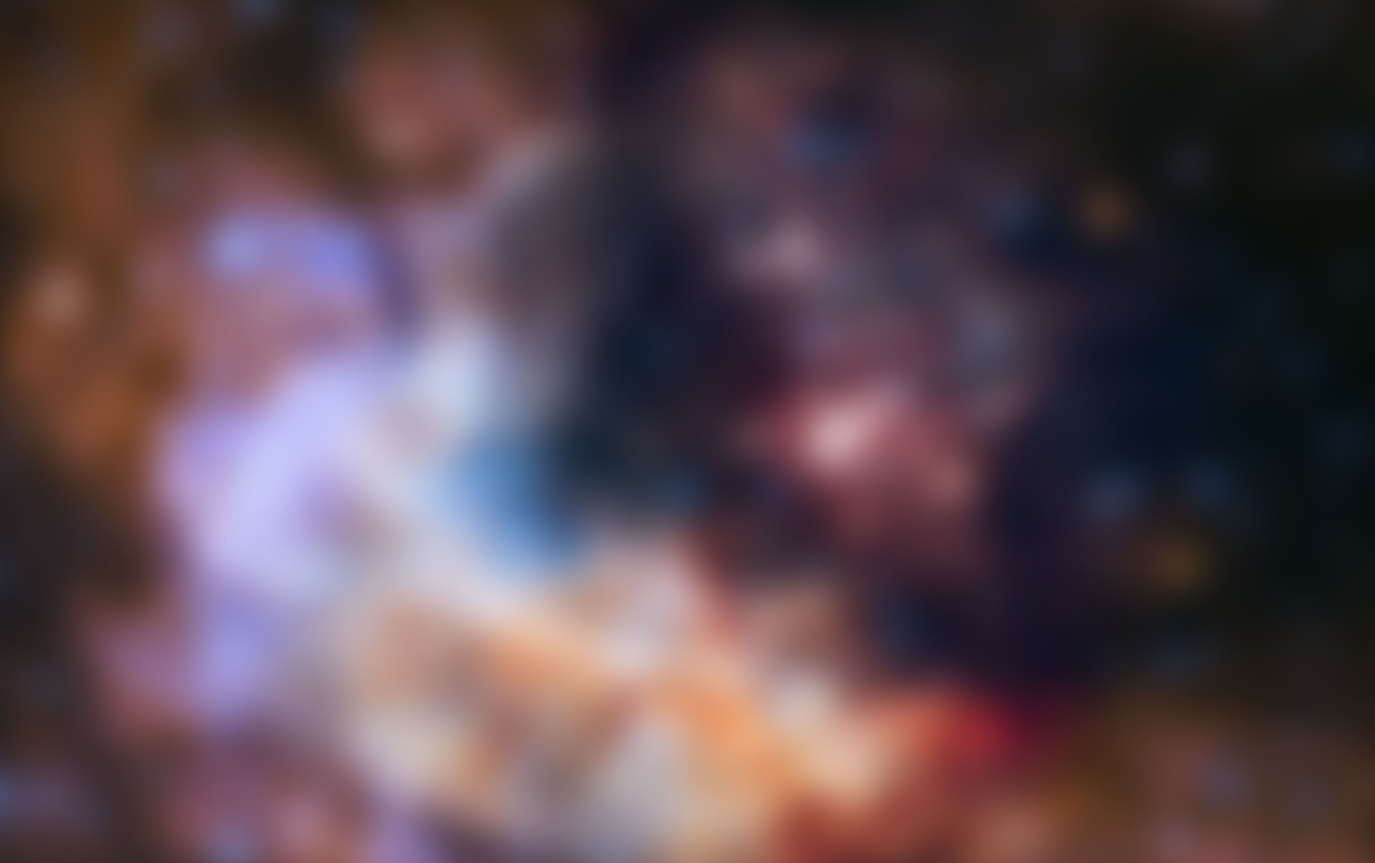
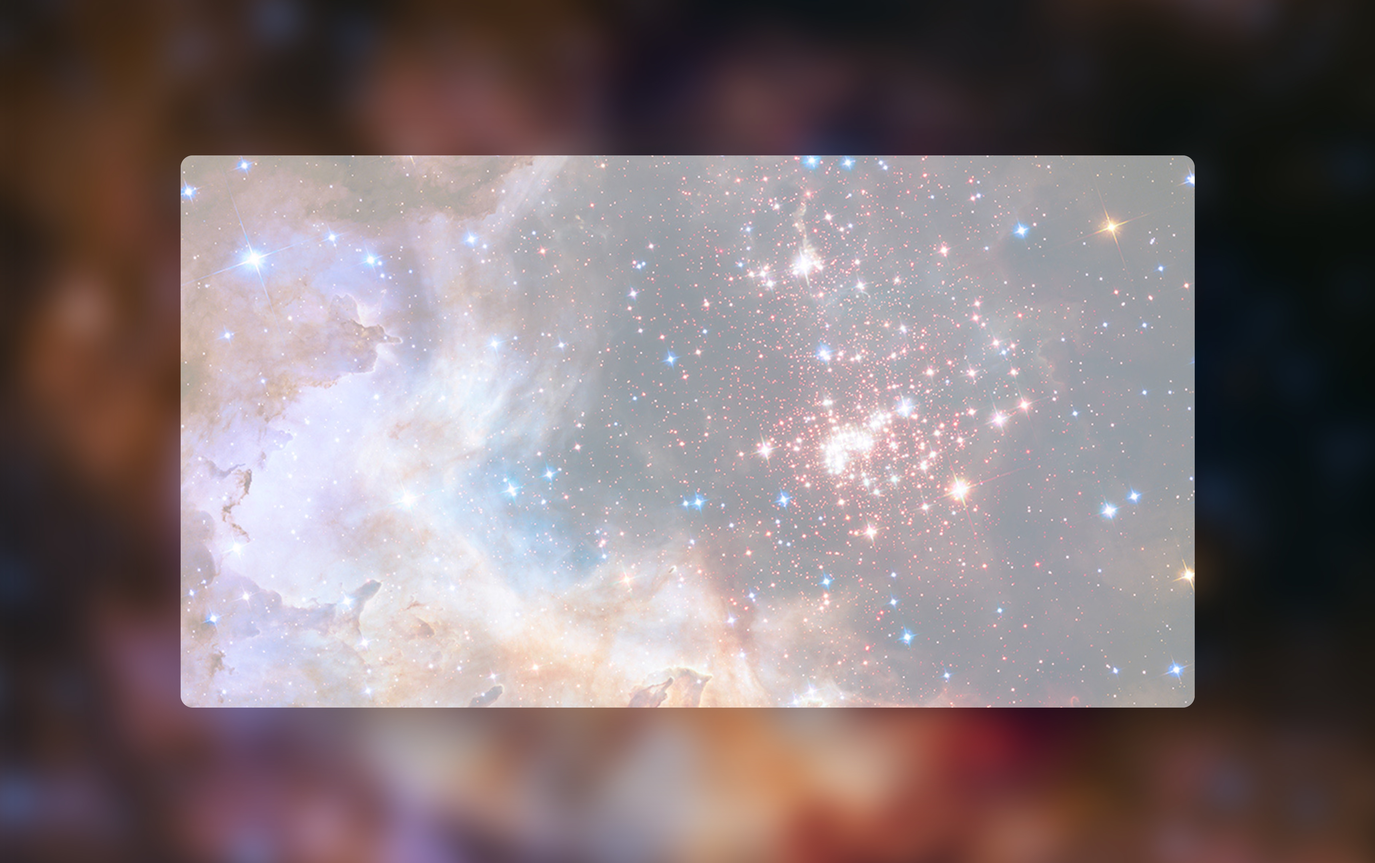
Changed the drawing of the pause menu for the new background

diff --git a/Beaulax/Beaulax/Game1.cs b/Beaulax/Beaulax/Game1.cs
@@ -146,24 +146,24 @@ namespace Beaulax
 
             #region Pause Menu
             // button y positions
-            resumeGameButtonY = (int)(screenHeight * (35f / 72f));
+            resumeGameButtonY = (int)(screenHeight * (5f / 12f));
             saveGameButtonY = (int)(resumeGameButtonY + buttonHeight + screenHeight * (1f / 72f));
             exitToMenuButtonY = saveGameButtonY + 2 * buttonHeight;
 
             // pause text size
-            pauseTextRectangle.Width = (int)(screenWidth * (1f / 3f));
-            pauseTextRectangle.Height = (int)(screenHeight * (13f / 60f));
+            pauseTextRectangle.Width = (int)(screenWidth * (16f / 75f));
+            pauseTextRectangle.Height = (int)(screenHeight * (5f / 36f));
 
             // pause text location
             pauseTextRectangle.X = (screenWidth - pauseTextRectangle.Width) / 2;
-            pauseTextRectangle.Y = (int)(screenHeight * (169f / 1440f));//(4f / 48f));
+            pauseTextRectangle.Y = (int)(screenHeight * (5f / 24f));
 
             // help button size
             helpButtonDimension = (int)(screenWidth * (7f / 120f));
 
             // help button location
-            helpButtonX = (int)(screenWidth - screenWidth * (1f / 120f) - helpButtonDimension);
-            helpButtonY = (int)(screenHeight * (1f / 72f));
+            helpButtonX = (int)(screenWidth - screenWidth * (7f / 50f) - helpButtonDimension);
+            helpButtonY = (int)(screenHeight * (7f / 36f));
             #endregion
             #endregion
 
@@ -369,7 +369,7 @@ namespace Beaulax
                 optionsButtonHover = false;
             }
 
-            // open the options menu when the options button is left clicked
+            // close the game when the exit button is left clicked
             if (mState.Y >= exitButtonY && mState.Y <= exitButtonY + exitButtonDimension && mState.X >= exitButtonX && mState.X <= exitButtonX + exitButtonDimension)
             {
                 // set to true when the mouse is over the button
@@ -510,6 +510,7 @@ namespace Beaulax
         void UpdatePauseMenu(GameTime gameTime)
         {
             KeyboardState kb = Keyboard.GetState();
+            MouseState mState = Mouse.GetState();
 
             // resume the game by switching to the gameplay state
             if (kb.IsKeyDown(Keys.Escape))
